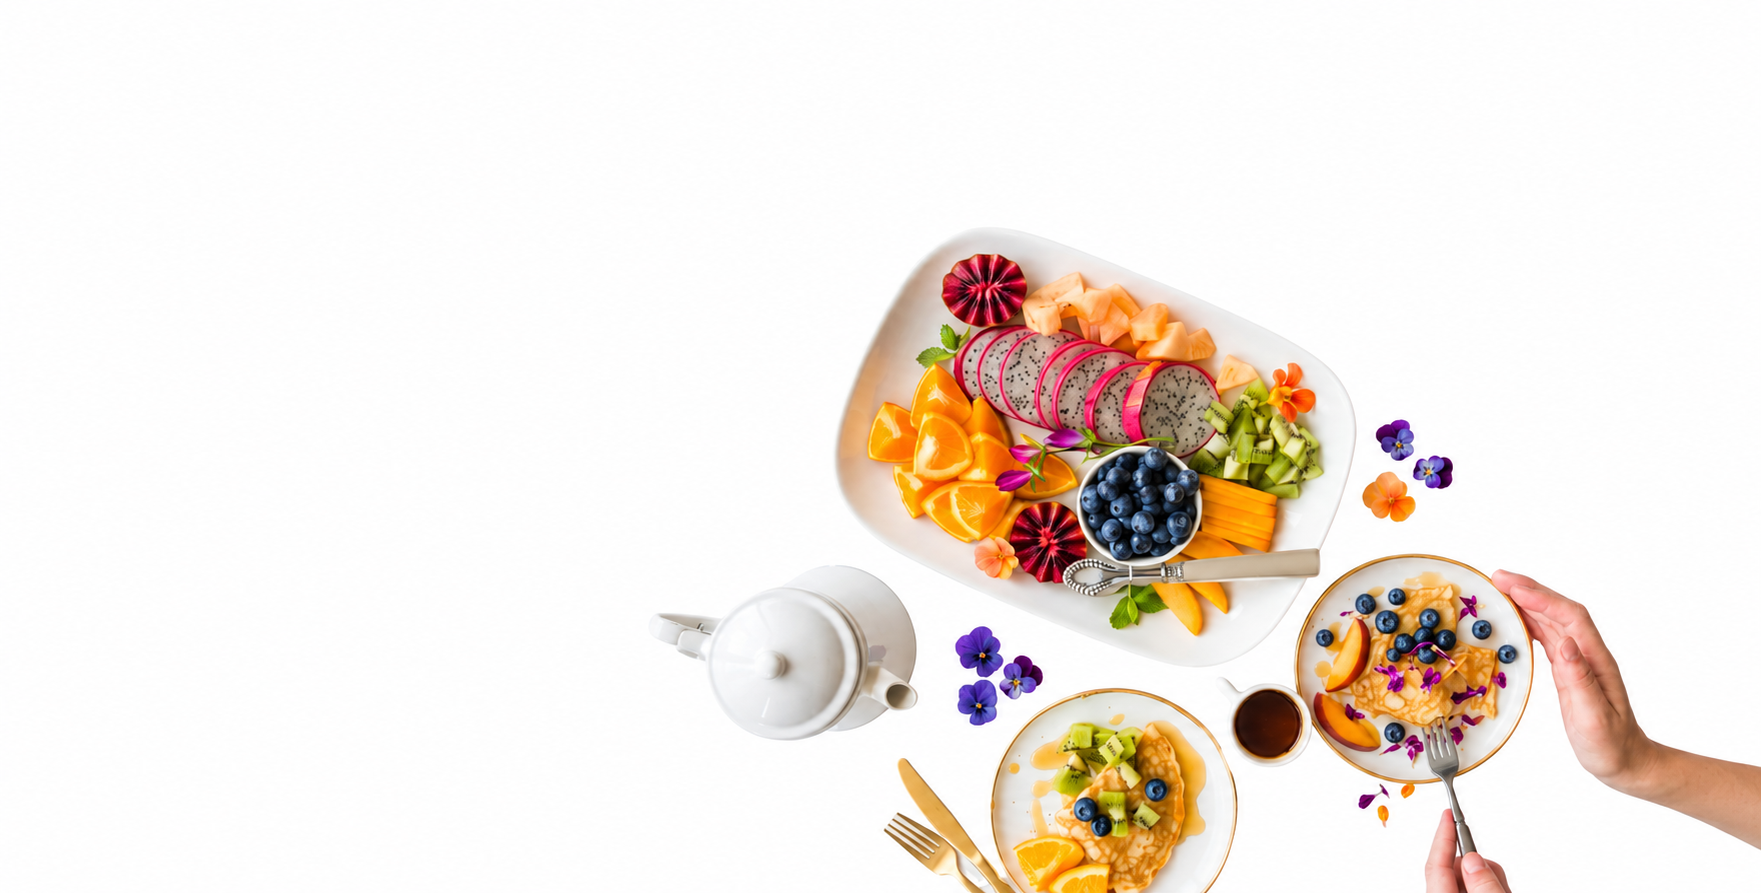
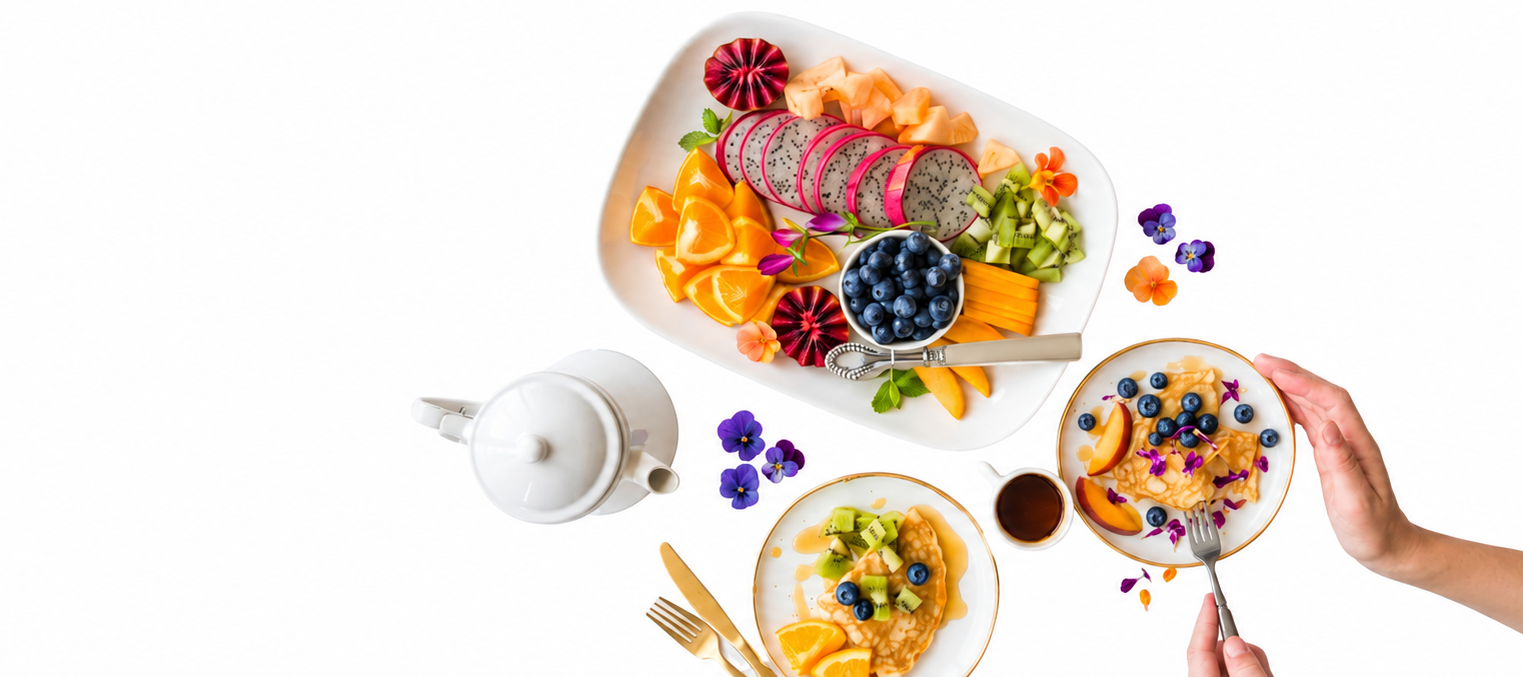
created static a home page

diff --git a/src/Nav.css b/src/Nav.css
@@ -1,37 +1,181 @@
 @import url('https://fonts.googleapis.com/css2?family=Anton&family=Bebas+Neue&family=Caacupe+One&family=Idiqlat:wght@200;300;400&family=Lilita+One&display=swap');
-.resto-nav{
-    display: flex;
-    justify-content: space-between;
-    padding: 10px 20px;
+
+* {
+    box-sizing: border-box;
 }
 
-.resto-img{
-    height:auto;
-    border-radius: 40%;
-    width: 120px;
-    background-color:black;
-    margin: 20px 30px 70px;
+body {
+    margin: 0;
+    padding: 0;
+    background: white;
 }
-.tab-item{
+
+.resto-nav {
+    display: flex;
+    justify-content: space-between;
+    align-items: center;
+    padding: 10px 20px;
+    height: 150px;
+}
+
+.resto-img {
+    width: 120px;
+    height: auto;
+    border-radius: 40%;
+    background-color: black;
+    margin: 20px 30px;
+}
+
+.nav-tabs {
+    display: flex;
+    align-items: center;
+    gap: 20px;
+    margin-right: 30px;
+}
+
+.tab-item {
     background: transparent;
     color: #A62B45;
     border: none;
     font-size: 1.4rem;
-    margin-left: 30px;
-     font-family: 'Anton', sans-serif;
-}
-.tab-item:first-child{
-    margin-left: 0;
-}
-.tab-item:last-child{
-    margin-right: 100px;
-}
-.tab-item:hover{
-    border: none;
+    font-family: 'Anton', sans-serif;
+    cursor: pointer;
+    position: relative;
+    display: inline-block;
+    padding: 0 0 5px 0;
+    margin: 0 20px;
 }
 
-.nav-tabs{
-    margin:55px;
+.tab-item::after {
+    content: '';
+    position: absolute;
+    width: 100%;
+    height: 2px;
+    bottom: 0;
+    left: 0;
+    background-color: #c94a4a;
+    transform: scaleX(0);
+    transform-origin: bottom left;
+    transition: transform 0.3s ease-out;
+}
+
+.tab-item:hover::after,
+.tab-item:focus-visible::after,
+.tab-item.active::after {
+    transform: scaleX(1);
+}
+
+.tab-item:focus-visible {
+    outline: 2px dashed #c94a4a;
+    outline-offset: 4px;
+}
+
+.tab-item:first-child {
+    margin-left: 0;
+}
+
+.tab-item:last-child {
+    margin-right: 0;
+}
+
+.hero-section {
+    display: flex;
+    align-items: center;
+    min-height: 550px;
+    padding: 10px 0 50px 6%;
+    overflow: hidden;
+}
+
+.hero-left {
+    width: 45%;
+    padding-left: 30px;
+    position: relative;
+    z-index: 2;
+}
+
+.hero-left h1 {
+    font-family: 'Lilita One', sans-serif;
+    font-size: 4.5rem;
+    line-height: 1.15;
+    color: #52182a;
+    margin: 0 0 10px;
+    margin-left: -200px;
+}
+
+.hero-left p {
+    font-family: Arial, sans-serif;
+    font-size: 1.3rem;
+    line-height: 1.7;
+    color: #666;
+    max-width: 600px;
+    margin: 0 0 30px;
+}
+
+.hero-buttons {
+    display: flex;
     gap: 20px;
-    margin-right: 30px;
+    margin-left: 100px;
+}
+
+.order-btn,
+.order-outline-btn {
+    padding: 14px 30px;
+    font-family: Arial, sans-serif;
+    font-weight: bold;
+    font-size: 1rem;
+    cursor: pointer;
+}
+
+.order-btn {
+    background-color: #A62B45;
+    color: white;
+    border: 2px solid #A62B45;
+}
+
+.order-outline-btn {
+    background-color: white;
+    color: #333;
+    border: 2px solid #eee;
+    box-shadow: 0 5px 15px rgba(0, 0, 0, 0.08);
+}
+
+.hero-right {
+    width: 55%;
+    display: flex;
+    justify-content: flex-end;
+    align-items: center;
+    overflow: visible;
+}
+
+.hIMG {
+    width: 145%;
+    max-width: none;
+    height: auto;
+    display: block;
+}
+.footer-stats{
+    display: flex;
+    background-color: #A62B45;
+    margin-top: -49.5px;
+    justify-content: space-around ;
+    height: 175px;
+}
+.stat{
+    flex: 1;
+}
+
+
+.stat h3{
+    margin: 50px 0 8px;
+    font-size: 3rem;
+    margin-bottom:30px ;
+    color: white;
+    font-family: 'Lilita One', sans-serif;
+}
+.stat p{
+    color: white;
+    font-size: 1.3rem;
+    letter-spacing: 1px;
+    font-family: Georgia, 'Times New Roman', Times, serif;
+    margin: 0;
 }

diff --git a/src/Navbar.jsx b/src/Navbar.jsx
@@ -33,6 +33,49 @@ export default function Navbar() {
                 onClick={()=>setActiveTab('FAQ')}>FAQ</button>
             </div>
         </nav>
+       <section className="hero-section">
+
+    <div className="hero-left">
+        <h1>Good food choices are<br/>good investments.</h1>
+
+        <p>
+        Enjoy delicious meals made with fresh ingredients, rich flavors,
+        and a touch of love. Discover food that makes every bite worth it.
+        </p>
+
+        <div className="hero-buttons">
+            <button className="order-btn">Order Now</button>
+            <button className="order-outline-btn"> Explore Food →</button>
+        </div>
+    </div>
+
+    <div className="hero-right">
+        <img
+            src={homeimg}
+            alt="Healthy food"
+            className="hIMG"
+        />
+    </div>
+</section>
+
+<div className="footer-stats">
+
+    <div className="stat">
+        <h3>30+</h3>
+        <p>AUTHENTIC DISHES</p>
+    </div>
+
+    <div className="stat">
+        <h3>15+</h3>
+        <p>REGIONAL FLAVOURS</p>
+    </div>
+
+    <div className="stat">
+        <h3>10+</h3>
+        <p>CHEF SPECIALS</p>
+    </div>
+
+</div>
         </>
     );
 
